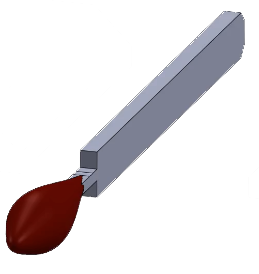
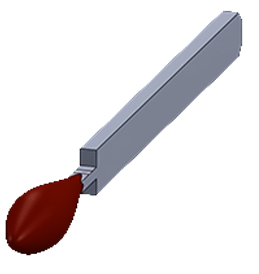
E6 preloading

diff --git a/labs/exp6/sim-script.js b/labs/exp6/sim-script.js
@@ -46,6 +46,109 @@ document.addEventListener("DOMContentLoaded", function () {
     let audioCtx = null;
     let hissBuffer = null;
 
+    /* ---------------- ASSET PRELOADING ---------------- */
+    const assetList = [
+        // Apparatus
+        "images/simulation/torch.png",
+        "images/simulation/oxygen cylinder.png",
+        "images/simulation/acetylene cylinderr.png",
+        "images/simulation/regulator.png",
+        "images/simulation/striker.png",
+
+        // Videos
+        "images/simulation/1.mp4",
+        "images/simulation/2.mp4",
+        "images/simulation/3.mp4",
+        "images/simulation/4.mp4",
+        "images/simulation/5.mp4",
+        "images/simulation/7.mp4",
+        "images/simulation/8.mp4",
+        "images/simulation/9.mp4",
+        "images/simulation/10.mp4",
+        "images/simulation/11.mp4",
+
+        // Drag Step
+        "images/simulation/6.png",
+        "images/simulation/6-tool.png",
+        "images/simulation/6.1.png",
+
+        // Result
+        "images/carbrizing flame.png",
+        "images/neutral flame.png",
+        "images/oxidising flame.png",
+
+        // Audio
+        "images/simulation/hiss.mp3"
+    ];
+
+    const assetCache = {};
+
+    function getAssetSrc(originalUrl) {
+        return assetCache[originalUrl] || originalUrl;
+    }
+
+    function formatSrc(url, timestamp) {
+        const src = getAssetSrc(url);
+        if (src.startsWith('blob:')) return src;
+        return `${src}?t=${timestamp}`;
+    }
+
+    async function preloadAssets() {
+        const overlay = document.createElement('div');
+        overlay.id = 'preload-overlay';
+        overlay.style.position = 'fixed';
+        overlay.style.top = '0';
+        overlay.style.left = '0';
+        overlay.style.width = '100%';
+        overlay.style.height = '100%';
+        overlay.style.backgroundColor = 'rgba(0,0,0,0.9)';
+        overlay.style.zIndex = '9999';
+        overlay.style.display = 'flex';
+        overlay.style.flexDirection = 'column';
+        overlay.style.justifyContent = 'center';
+        overlay.style.alignItems = 'center';
+        overlay.style.color = '#fff';
+        overlay.innerHTML = `
+            <div style="font-size: 24px; margin-bottom: 20px;">Loading simulation resources...</div>
+            <div style="width: 300px; height: 10px; background: #333; border-radius: 5px; overflow: hidden;">
+                <div id="preload-progress" style="width: 0%; height: 100%; background: #4CAF50; transition: width 0.3s;"></div>
+            </div>
+            <div id="preload-text" style="margin-top: 10px; font-size: 14px;">0%</div>
+        `;
+        document.body.appendChild(overlay);
+
+        const progressBar = document.getElementById('preload-progress');
+        const progressText = document.getElementById('preload-text');
+        let loadedCount = 0;
+
+        const promises = assetList.map(async (url) => {
+            try {
+                const response = await fetch(url);
+                if (!response.ok) throw new Error(`Failed to load ${url}`);
+                const blob = await response.blob();
+                const objectUrl = URL.createObjectURL(blob);
+                assetCache[url] = objectUrl;
+            } catch (err) {
+                console.error(`Error preloading ${url}:`, err);
+            } finally {
+                loadedCount++;
+                const percent = Math.round((loadedCount / assetList.length) * 100);
+                progressBar.style.width = percent + '%';
+                progressText.textContent = percent + '%';
+            }
+        });
+
+        await Promise.all(promises);
+
+        setTimeout(() => {
+            overlay.style.opacity = '0';
+            setTimeout(() => {
+                document.body.removeChild(overlay);
+                showCurrentStep();
+            }, 500);
+        }, 500);
+    }
+
     async function initAudio() {
         if (!audioCtx) {
             audioCtx = new (window.AudioContext || window.webkitAudioContext)();
@@ -55,7 +158,8 @@ document.addEventListener("DOMContentLoaded", function () {
         }
         if (!hissBuffer) {
             try {
-                const response = await fetch('images/simulation/hiss.mp3');
+                const src = getAssetSrc('images/simulation/hiss.mp3');
+                const response = await fetch(src);
                 const arrayBuffer = await response.arrayBuffer();
                 hissBuffer = await audioCtx.decodeAudioData(arrayBuffer);
             } catch (e) {
@@ -313,7 +417,7 @@ document.addEventListener("DOMContentLoaded", function () {
                 <h3>${step.title}</h3>
                 <div class="step-indicator">Step ${currentStepIndex + 1} of ${totalSteps}</div>
                 <div style="height: 400px; display: flex; align-items: center; justify-content: center;">
-                    <img src="${step.src}?t=${timestamp}" class="step-gif" alt="${step.title}">
+                    <img src="${formatSrc(step.src, timestamp)}" class="step-gif" alt="${step.title}">
                 </div>
                 <div class="drag-instructions">${step.initialInstruction}</div>
             </div>
@@ -334,7 +438,7 @@ document.addEventListener("DOMContentLoaded", function () {
                 text-align:center;
             ">
                 <div class="apparatus-img-box">
-                    <img src="${item.img}" alt="${item.name}">
+                    <img src="${getAssetSrc(item.img)}" alt="${item.name}">
                 </div>
                 <h4 style="margin: 10px 0 6px;">${item.name}</h4>
                 <p style="font-size: 14px;">${item.desc}</p>
@@ -369,8 +473,8 @@ document.addEventListener("DOMContentLoaded", function () {
                 <h3>${step.title}</h3>
                 <div class="step-indicator">Step ${currentStepIndex + 1} of ${totalSteps}</div>
                 <div class="drag-stage" id="drag-stage">
-                    <img src="${step.src}?t=${timestamp}" alt="Background" class="stage-bg" id="drag-bg"/>
-                    <img src="${step.tool}?t=${timestamp}" alt="Tool" id="draggable-tool" class="draggable" style="width: 20%; cursor:grab;"/>
+                    <img src="${formatSrc(step.src, timestamp)}" alt="Background" class="stage-bg" id="drag-bg"/>
+                    <img src="${formatSrc(step.tool, timestamp)}" alt="Tool" id="draggable-tool" class="draggable" style="width: 20%; cursor:grab;"/>
                     <div id="drop-zone" class="drop-zone" aria-hidden="true"></div>
                 </div>
                 <div class="drag-instructions" id="drag-instruction" style="white-space: pre-line;">${step.initialInstruction}</div>
@@ -490,7 +594,7 @@ document.addEventListener("DOMContentLoaded", function () {
                 setTimeout(() => {
                     tool.onclick = function () {
                         tool.style.display = 'none';
-                        document.getElementById('drag-bg').src = 'images/simulation/6.1.png';
+                        document.getElementById('drag-bg').src = getAssetSrc('images/simulation/6.1.png');
                         instructionElem.textContent = step.finalInstruction;
                         setInteractiveCompleted(step.id, true);
                         if (nextButton) nextButton.disabled = false;
@@ -517,7 +621,7 @@ document.addEventListener("DOMContentLoaded", function () {
                 <h3>${step.title}</h3>
                 <div class="step-indicator">Step ${currentStepIndex + 1} of ${totalSteps}</div>
                 <div class="play-stage" id="play-stage">
-                    <video id="step-video" src="${step.src}?t=${timestamp}" style="width:100%; height:100%;" playsinline muted></video>
+                    <video id="step-video" src="${formatSrc(step.src, timestamp)}" style="width:100%; height:100%;" playsinline muted></video>
                     <button id="play-hotspot" class="play-hotspot" style="display:none;"></button>
                 </div>
                 <div id="play-instruction" class="drag-instructions" style="white-space: pre-line;">${step.initialInstruction}</div>
@@ -684,7 +788,8 @@ document.addEventListener("DOMContentLoaded", function () {
         });
     }
 
-    showCurrentStep();
+    // Start with preloading
+    preloadAssets();
 
     function renderResultStep() {
         if (nextButton) nextButton.disabled = true;
@@ -717,7 +822,7 @@ document.addEventListener("DOMContentLoaded", function () {
                 <tr>
                     <td style="text-align:center;">
                         <strong>${f.name}</strong><br>
-                        <img src="${f.img}" style="width:235px;">
+                        <img src="${getAssetSrc(f.img)}" style="width:235px;">
                     </td>
                     <td>${f.desc}</td>
                     <td>${f.app}</td>

diff --git a/labs/exp7/sim-script.js b/labs/exp7/sim-script.js
@@ -855,7 +855,8 @@ document.addEventListener("DOMContentLoaded", function () {
     // Step 3 Multi-Phase: Part 1 (video with hotspots) -> Part 2 (drag-and-drop) -> Part 3 (video with one hotspot)
     function renderStep3MultiPhase(step, timestamp) {
         setInteractiveCompleted(step.id, false);
-        if (nextButton) nextButton.disabled = true;
+        // Enable next button to allow manual phase navigation
+        if (nextButton) nextButton.disabled = false;
 
         // Phase 1 hotspots configuration (existing hotspots from 3.1.mp4)
         const phase1Cfg = [
@@ -975,13 +976,12 @@ document.addEventListener("DOMContentLoaded", function () {
 
         function onVideoEnded() {
             if (currentPhase === 1) {
-                // Phase 1 ended -> transition to Phase 2 (drag-and-drop)
                 startPhase2();
             } else if (currentPhase === 3) {
-                // Phase 3 ended -> step complete
                 setInteractiveCompleted(step.id, true);
                 instructionElem.innerHTML = "<b>Step complete.</b> Click next to: " + stepGuidance[step.id].next;
                 if (nextButton) nextButton.disabled = false;
+                window.customNextHandler = null; // Clear handler when done
             }
         }
 
@@ -1036,8 +1036,8 @@ document.addEventListener("DOMContentLoaded", function () {
 
             const stageRect = dragStage.getBoundingClientRect();
             const toolRect = draggable.getBoundingClientRect();
-            const anchorX = 0.8;  // 20% from left edge
-            const anchorY = 0.1;  // 90% from top (near bottom)
+            const anchorX = 0.8;
+            const anchorY = 0.1;
             const toolCenter = {
                 x: toolRect.left - stageRect.left + toolRect.width * anchorX,
                 y: toolRect.top - stageRect.top + toolRect.height * anchorY
@@ -1051,7 +1051,6 @@ document.addEventListener("DOMContentLoaded", function () {
 
             if (dist < tolerancePx) {
                 dropZone.classList.add('success');
-                // Cleanup drag listeners and transition to Phase 3
                 window.removeEventListener('resize', setDropZoneLayout);
                 window.removeEventListener('mousemove', onDragPointerMove);
                 window.removeEventListener('touchmove', onDragPointerMove);
@@ -1067,21 +1066,24 @@ document.addEventListener("DOMContentLoaded", function () {
             dragStage.style.display = 'block';
             instructionElem.textContent = 'Drag the ignitor to the torch.';
 
-            // Reset video listeners for phase 3
+            video.pause(); // Ensure video is stopped
             video.removeEventListener('ended', onVideoEnded);
 
-            // Setup drop zone layout
             if (dragBg.complete && dragBg.naturalWidth) setDropZoneLayout();
             else dragBg.onload = setDropZoneLayout;
             window.addEventListener('resize', setDropZoneLayout);
 
-            // Attach drag listeners
             draggable.addEventListener('mousedown', onDragPointerDown);
             draggable.addEventListener('touchstart', onDragPointerDown);
             window.addEventListener('mousemove', onDragPointerMove);
             window.addEventListener('touchmove', onDragPointerMove);
             window.addEventListener('mouseup', onDragPointerUp);
             window.addEventListener('touchend', onDragPointerUp);
+
+            // Handler for "next" button in Phase 2
+            window.customNextHandler = () => {
+                startPhase3();
+            };
         }
 
         function startPhase3() {
@@ -1090,26 +1092,35 @@ document.addEventListener("DOMContentLoaded", function () {
             playStage.style.display = 'block';
             instructionElem.textContent = 'Click to ignite the flame.';
 
-            // Reset for Phase 3
             segmentIndex = 0;
             pausedForSegment = false;
             currentCfg = phase3Cfg;
 
-            // Load Phase 3 video
             video.src = formatSrc('images/simulation/3.2.mp4', Date.now());
             video.addEventListener('ended', onVideoEnded, { once: true });
             video.addEventListener('loadedmetadata', () => {
                 layoutHotspot();
                 video.play().catch(() => { });
             }, { once: true });
+
+            // Handler for "next" button in Phase 3
+            window.customNextHandler = () => {
+                video.pause();
+                setInteractiveCompleted(step.id, true);
+                window.customNextHandler = null;
+                // Trigger next step
+                if (currentStepIndex < totalSteps - 1) {
+                    currentStepIndex++;
+                    showCurrentStep();
+                }
+            };
         }
 
-        // ========== START PHASE 1 ==========
         function startPhase1() {
             currentPhase = 1;
             currentCfg = phase1Cfg;
             segmentIndex = 0;
-            passwordForSegment = false;
+            pausedForSegment = false; // Fixed typo 'passwordForSegment'
 
             video.src = formatSrc('images/simulation/3.1.mp4', timestamp);
             video.addEventListener('ended', onVideoEnded, { once: true });
@@ -1117,6 +1128,11 @@ document.addEventListener("DOMContentLoaded", function () {
                 layoutHotspot();
                 video.play().catch(() => { });
             }, { once: true });
+
+            // Handler for "next" button in Phase 1
+            window.customNextHandler = () => {
+                startPhase2();
+            };
         }
 
         video.addEventListener('play', onPlay);
@@ -1127,6 +1143,7 @@ document.addEventListener("DOMContentLoaded", function () {
         startPhase1();
 
         cleanupCurrent = function () {
+            window.customNextHandler = null; // Cleanup handler
             try {
                 window.removeEventListener('resize', layoutHotspot);
                 window.removeEventListener('resize', setDropZoneLayout);
@@ -2012,9 +2029,9 @@ document.addEventListener("DOMContentLoaded", function () {
     }
 
     function renderResultStep() {
-    document.body.classList.add('result-mode');
+        document.body.classList.add('result-mode');
 
-    gifContainer.innerHTML = `
+        gifContainer.innerHTML = `
         <div class="gif-wrapper print-area" style="overflow-y:auto; height:100%; display:block;">
             <h2 style="text-align:center;">Experiment Result</h2>
             <hr>
@@ -2094,8 +2111,8 @@ document.addEventListener("DOMContentLoaded", function () {
         </div>
     `;
 
-    if (nextButton) nextButton.disabled = true;
-}
+        if (nextButton) nextButton.disabled = true;
+    }
 
 
 
@@ -2110,6 +2127,10 @@ document.addEventListener("DOMContentLoaded", function () {
     }
     if (nextButton) {
         nextButton.addEventListener('click', function () {
+            if (typeof window.customNextHandler === 'function') {
+                window.customNextHandler();
+                return;
+            }
             if (currentStepIndex < totalSteps - 1) {
                 currentStepIndex++;
                 showCurrentStep();
